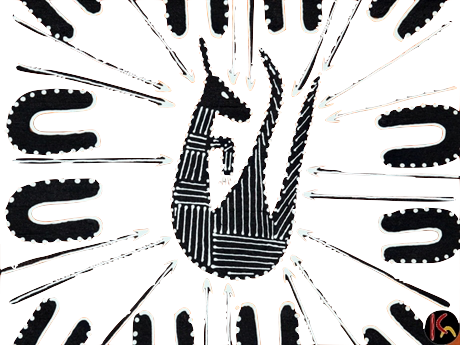
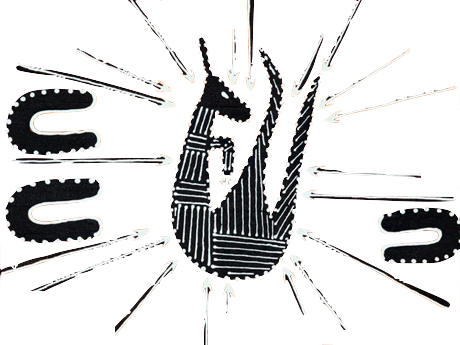
acknowledgement

diff --git a/cc_finalproj/sketch.js b/cc_finalproj/sketch.js
@@ -1,3 +1,10 @@
+//Acknowledgement
+
+let a = 'I would like to begin by acknowledging the American Indigenous population, Traditional Custodians of the land on which we learn today, and pay my respects to their Elders past and present. I extend this respect to the Australian Aboriginal and Torres Strait Islander peoples that created these works of art using pieces of their culture and experiences. I would also like to pay my respects to their Elders past and present and to thank them for sharing their work.'
+
+let instruction = 'Instructions: Use your trackpad or mouse to navigate around the Canvas. Interact with shapes to hear Dreamtime Stories.'
+//img set up
+
 let layer1=[];
 let layer2=[];
 
@@ -15,6 +22,13 @@ let dreamtimeAudio;
 // declaring buttons
 let audioBtn;
 let audioCount = 0;
+let xBtn; 
+let xBtnCount = 0; 
+
+// declare popup box variables 
+let outBoxOpacity = 190; 
+let boxOpacity = 255; 
+
 
 function preload(){
   // Preload Images
@@ -27,6 +41,8 @@ function preload(){
   // Preload Audio 
   soundFormats('mp3');
   dreamtimeAudio = loadSound('audio/dreamtime_0.mp3');
+
+
 }
 
 function setup() {
@@ -35,18 +51,26 @@ function setup() {
   for (let i=0; i<14; i++){
     layerOneImg[i] = new MovingImg();
     
+    // Popup Button Set Up 
+    xBtn = new Clickable();
+    xBtn.resize(10, 10);
+    xBtn.locate(960,270);
+    xBtn.textColor = 255;
+    xBtn.text = "X";  
+    xBtn.color = 0;
+    xBtn.textSize = 20;
+
+
     // Audio Button Set Up 
     audioBtn = new Clickable();
     audioBtn.resize(100, 50); 
   
   }
-   
 }
 
 function draw() {
 
   background(100);
-
 
   // Background Image Repeated
   let rows = 2; 
@@ -58,10 +82,9 @@ function draw() {
     }
   }
 
-
   // Display and Setup of Parallax Images 
 
-  layerOneImg[0].parallax([0], 200, 250, 100, 500, 0, 700, 700, 800);
+  layerOneImg[0].parallax([0], 400, 650, 500, 800, 0, 700, 700, 800);
   layerOneImg[1].parallax([1], 0, 100, 50, 200, 0, 100, 200, 300);
   layerOneImg[2].parallax([2], 2800, 2900, 3000, 3200, 0, 100, 50, 300);
   layerOneImg[3].parallax([3], 100, 1900, 200, 2200, 0, 100, 200, 300);
@@ -73,7 +96,7 @@ function draw() {
   layerOneImg[9].parallax([9], 500, 800, 600, 1200, 0, 100, 200, 300);
   layerOneImg[10].parallax([10], 100, 120, 100, 120, 0, 20, 0, 30);
   layerOneImg[11].parallax([11], 0, 50, 100, 200, 900, 1200, 1000, 1400);
-  layerOneImg[12].parallax([12], 2600, 2700, 2500, 2600, 600, 700, 600, 800);
+  layerOneImg[12].parallax([12], 2800, 2900, 3100, 3200, 400, 500, 500, 600);
   layerOneImg[13].parallax([13],2700, 2900, 3200, 3500, 0, 100, 200, 300);
 
   for (let i=0; i<14; i++) { // Display Images 
@@ -98,6 +121,31 @@ function draw() {
       audioCount = 1;
       dreamtimeAudio.play();
     }
+  }
+
+  //acknowledgement pop up 
+  fill(0,outBoxOpacity);
+  rect(0, 0, width, height); 
+  fill(0, boxOpacity);
+  rect(width/10, height/8, 600, 300); 
+  fill(255, outBoxOpacity);
+  textFont("Antic Slab");
+  text(a, width/10+50, height/9, 500, 250);
+  text(instruction, width/10+50, height/6, 500, 250);
+
+  xBtn.draw()
+  xBtn.onHover = function(){
+    xBtn.textSize = 25;
+  }
+  xBtn.onOutside = function(){
+    xBtn.textSize = 20;
+    
+  }
+  xBtn.onPress = function(){
+    outBoxOpacity = 0; 
+    boxOpacity = 0; 
+    xBtn.text = "   ";
+    xBtn.resize(0,0);
   }
 }
 

diff --git a/cc_finalproj/index.html b/cc_finalproj/index.html
@@ -1,4 +1,6 @@
 <!DOCTYPE html><html lang="en"><head>
+    <link rel="preconnect" href="https://fonts.gstatic.com">
+    <link href="https://fonts.googleapis.com/css2?family=Antic+Slab&display=swap" rel="stylesheet">
     <script src="p5.js"></script>
     <script src="libraries/p5.sound.min.js"></script>
     <script src="libraries/p5.sound.js"></script>
